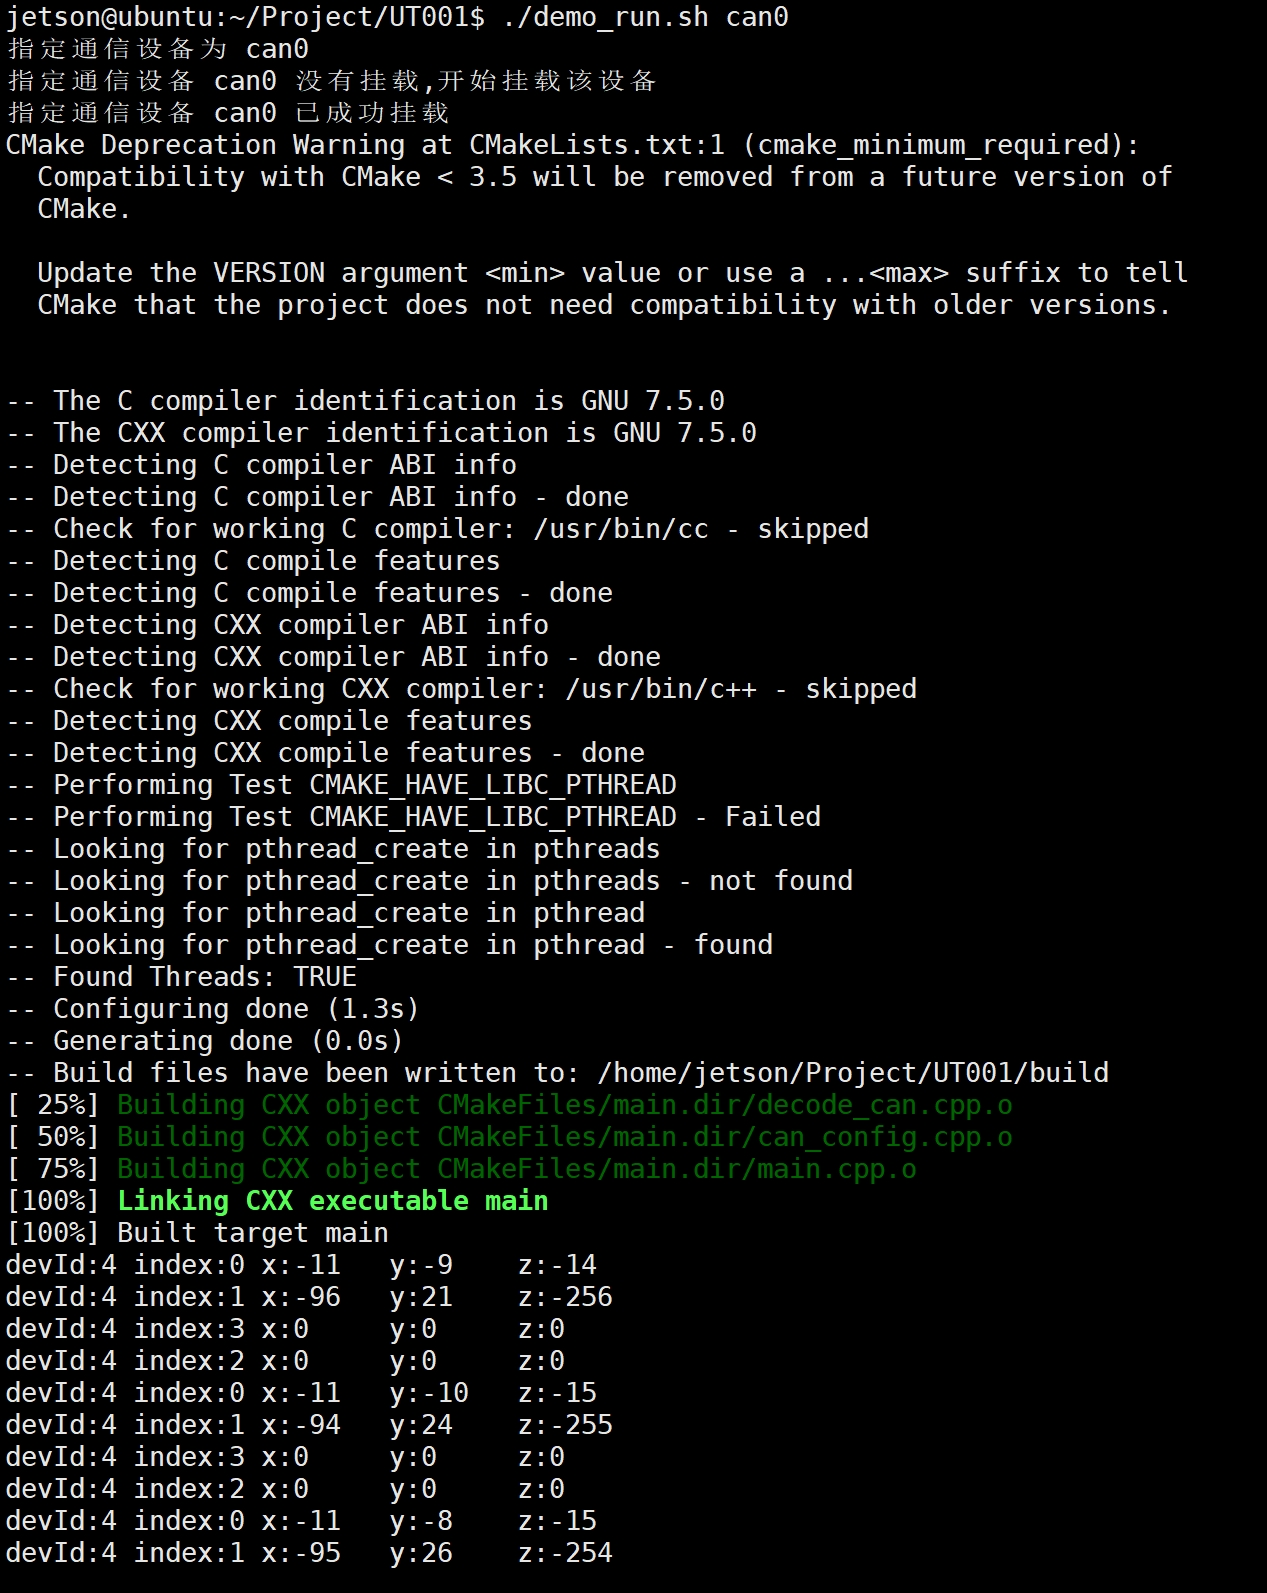
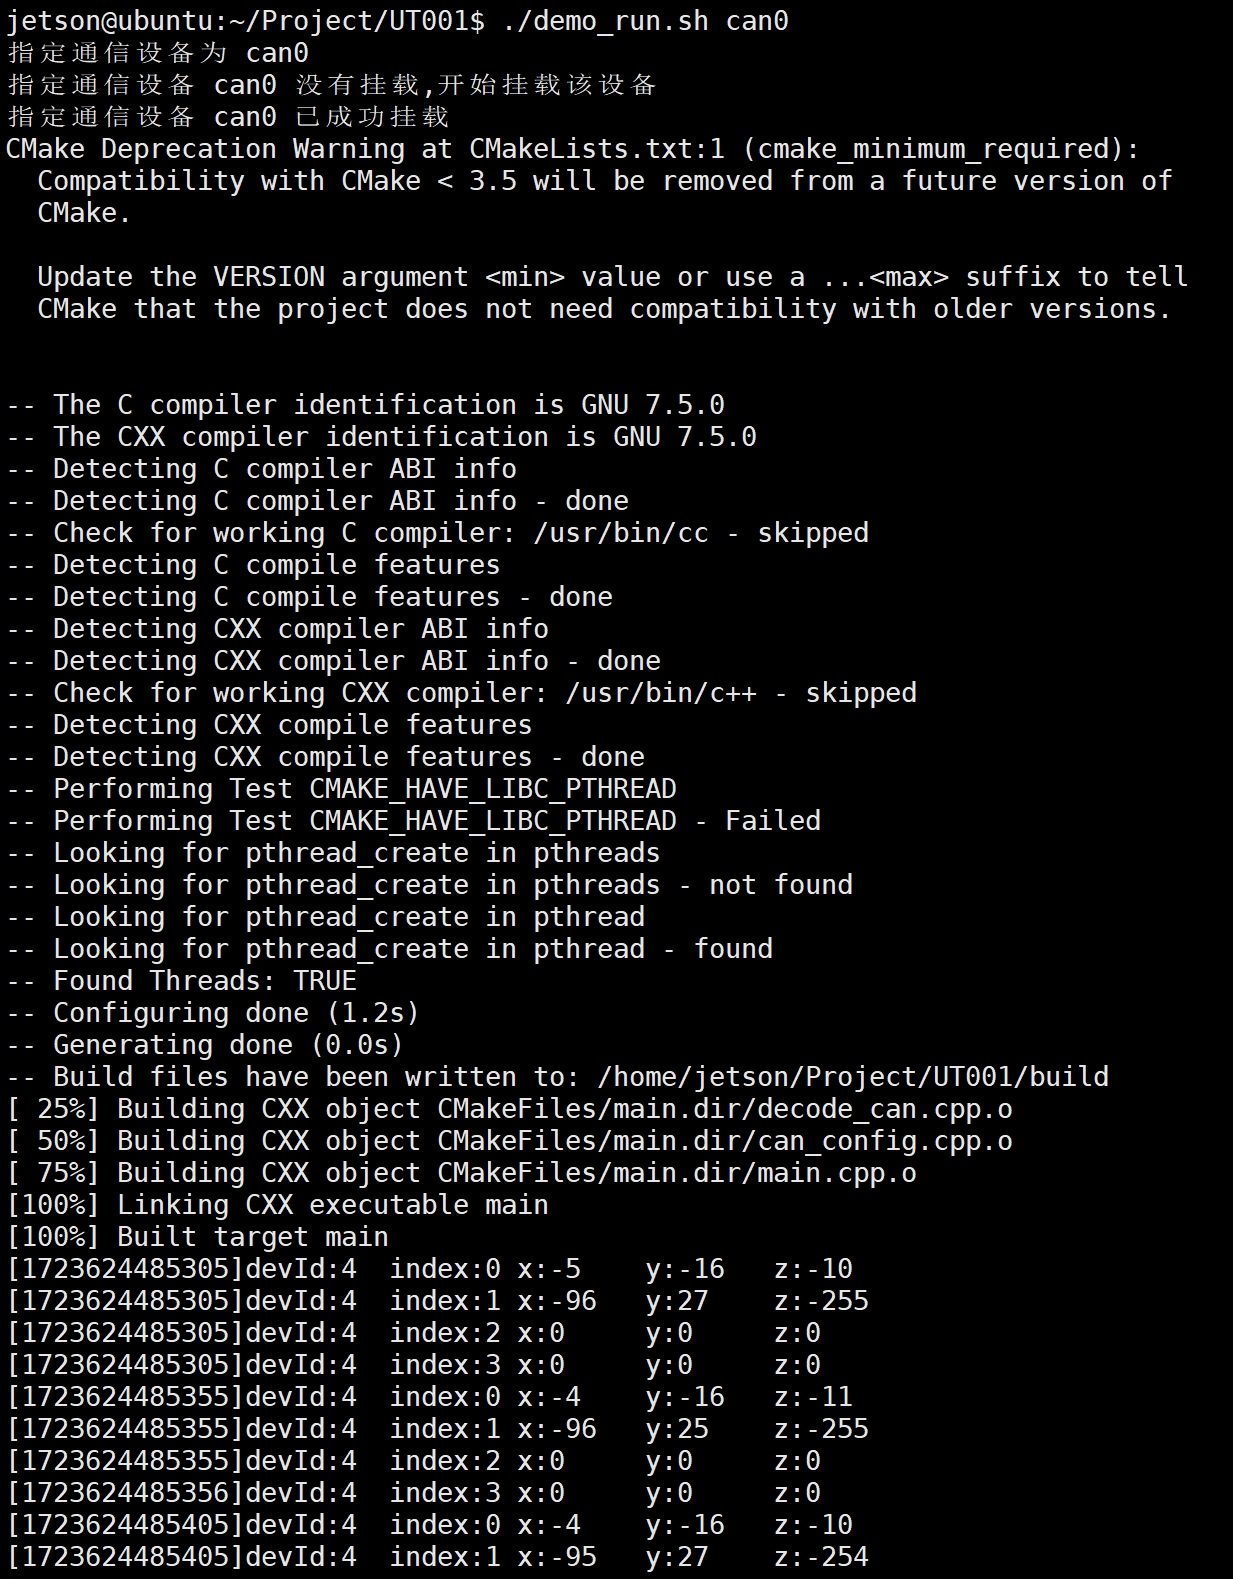
1.增加TX2示例脚本文件的错误提示。 2.增加TX2示例的时间戳。

diff --git a/TX2_example/main.cpp b/TX2_example/main.cpp
@@ -2,6 +2,7 @@
 #include <termios.h>
 #include <stdlib.h>
 #include <unistd.h>
+#include <sys/time.h>
 #include "can_config.h"
 
 
@@ -10,6 +11,7 @@ int main(int argc, char *argv[])
     int ret;
     Axis_t tAxit;
     CANConfig canConfig;
+    struct timeval tv;
 
     if(argc < 2)
     {
@@ -31,7 +33,8 @@ int main(int argc, char *argv[])
     {
         //实时读取传感器输出的数据
         canConfig.getAxit(&tAxit);
-        printf("devId:%d\tindex:%d\tx:%d\ty:%d\tz:%d\n", \
+        gettimeofday(&tv, NULL);
+        printf("[%lu]devId:%d\tindex:%d\tx:%d\ty:%d\tz:%d\n", tv.tv_sec * 1000 + tv.tv_usec / 1000,  \
             tAxit.devId, tAxit.sensorId, tAxit.x, tAxit.y, tAxit.z);
     }
     
